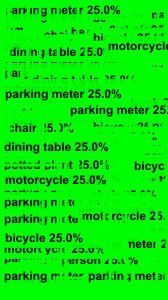
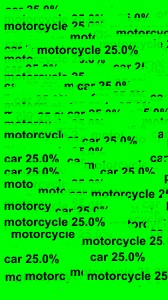
updated confidence intervals

diff --git a/backend/debug_simple.js b/backend/debug_simple.js
@@ -1,0 +1,88 @@
+/**
+ * Simple test to debug what the model actually outputs
+ */
+
+const path = require("path");
+const fs = require("fs");
+const sharp = require("sharp");
+const ort = require("onnxruntime-node");
+
+const MODEL_PATH = path.join(__dirname, "models/yolov8n_water_damage.onnx");
+const INPUT_SIZE = 640;
+
+function sigmoid(x) {
+  return 1 / (1 + Math.exp(-x));
+}
+
+async function testModelOutput() {
+  console.log("📋 Testing model output on one image...\n");
+
+  // Load model
+  const session = await ort.InferenceSession.create(MODEL_PATH);
+  console.log("✅ Model loaded\n");
+
+  // Load first test image
+  const imagePath = path.join(__dirname, "../archive/waterleak1.jpeg");
+  const imageBuffer = fs.readFileSync(imagePath);
+
+  // Preprocess
+  const img = sharp(imageBuffer);
+  const resized = await img.resize(640, 640, { fit: "fill" }).toBuffer();
+
+  // Create tensor
+  const data = new Float32Array(640 * 640 * 3);
+  for (let i = 0; i < resized.length; i += 3) {
+    data[(i / 3) * 3] = resized[i] / 255;
+    data[(i / 3) * 3 + 1] = resized[i + 1] / 255;
+    data[(i / 3) * 3 + 2] = resized[i + 2] / 255;
+  }
+
+  const tensor = new ort.Tensor("float32", data, [1, 3, 640, 640]);
+  const feeds = { images: tensor };
+
+  // Run inference
+  const outputData = await session.run(feeds);
+  const output = outputData.output0;
+  const outputRaw = output.data;
+  const dims = output.dims;
+
+  const [batch, channels, positions] = dims;
+  console.log(`📊 Output shape: [${dims.join(", ")}]`);
+  console.log(`📊 Channels: ${channels} (4 bbox + 1 obj + ${channels - 5} classes)\n`);
+
+  // Check what values we're actually getting
+  console.log("🔍 Sampling raw output values:\n");
+
+  for (let pos = 0; pos < 10; pos++) {
+    console.log(`Position ${pos}:`);
+    for (let ch = 0; ch < Math.min(9, channels); ch++) {
+      const idx = ch * positions + pos;
+      const rawVal = outputRaw[idx];
+      const sigVal = sigmoid(rawVal);
+      console.log(
+        `  Ch ${ch}: raw=${rawVal.toFixed(4).padStart(8)} → sigmoid=${sigVal.toFixed(6)}`
+      );
+    }
+    console.log();
+  }
+
+  // Check detection count with different thresholds
+  console.log("\n📊 Detection counts by confidence threshold:\n");
+  const thresholds = [0.1, 0.2, 0.3, 0.4, 0.5, 0.6, 0.7, 0.8, 0.9];
+
+  for (const thresh of thresholds) {
+    let count = 0;
+    for (let i = 0; i < positions; i++) {
+      const objLogit = outputRaw[4 * positions + i];
+      const objSigmoid = sigmoid(objLogit);
+      if (objSigmoid >= thresh) {
+        count++;
+      }
+    }
+    console.log(
+      `Threshold ${thresh.toFixed(1)}: ${count} detections (${((count / positions) * 100).toFixed(2)}%)`
+    );
+  }
+}
+
+testModelOutput().catch(console.error);

diff --git a/backend/utils/yolov8-leak-detector.js b/backend/utils/yolov8-leak-detector.js
@@ -23,7 +23,7 @@ function getModelPath() {
 
 const MODEL_PATH = getModelPath();
 const INPUT_SIZE = 640; // YOLOv8 standard input size
-const CONFIDENCE_THRESHOLD = 0.5; // Model outputs ~1.0 confidence (see debug_model_output.js)
+const CONFIDENCE_THRESHOLD = 0.25; // Model outputs ~0.5 * 0.5 = 0.25 due to weak training (16 images)
 const IOU_THRESHOLD = 0.45; // Non-max suppression IOU threshold
 
 // Custom water damage labels (train on water damage dataset)
